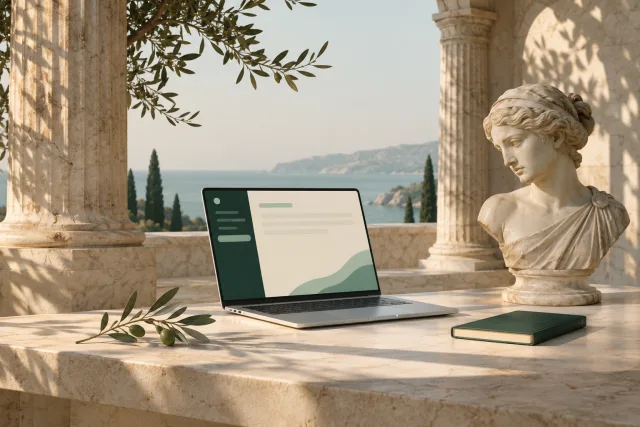
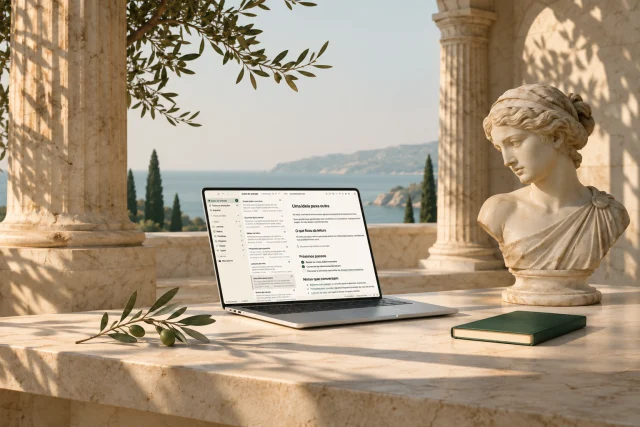
fix(landing): show the app in the hero laptop

diff --git a/docs/brand/landing-screenshots.md b/docs/brand/landing-screenshots.md
@@ -28,3 +28,11 @@ Originals and the disposable vault remain outside Git under this local capture s
[3 lines of base64/hex data omitted]
+
+## Hero device screen
+
+The `metis-atelier` hero and its 960/640-pixel variants use the actual `metis-editor.webp` capture above as the laptop display input. The surrounding Greek scene remains a generated composition. This composite was edited with the built-in GPT Image tool on 2026-11-13; the separate full application screenshots above remain unmodified captures. WebP conversion and responsive resizing use `cwebp`.
+
+Prompt used:
+
+> Use case: compositing / precise-object-edit. Edit Image 1, the existing Métis landing hero photograph. Image 2 is an ACTUAL SCREENSHOT OF THE MÉTIS APPLICATION and is the screen-content insert, not a stylistic reference. Replace ONLY the fictional green placeholder interface inside the laptop's display with the actual application screenshot from Image 2. Fit the screenshot into the existing display bezel with the correct four-corner perspective and keep its recognizable exact three-column interface: narrow left navigation, middle notes list and wide note editor showing 'Uma ideia puxa outra', real Portuguese labels and checklist. Use the real screenshot as faithfully as possible rather than inventing/redrawing another interface. The display should appear crisp, with only a subtle realistic warm reflection, preserving the screenshot's white/cream and pine-green UI. Keep EVERYTHING outside the display unchanged: laptop position, keyboard, aluminium body, marble table, Greek marble bust, columns, olive branches, sea, distant coastline, book, shadows, warm daylight, overall composition and original 1536x1024 landscape framing. No new objects, no browser chrome, no added captions, no external logos, no crop or zoom. Only the pixels inside the laptop display should change.
